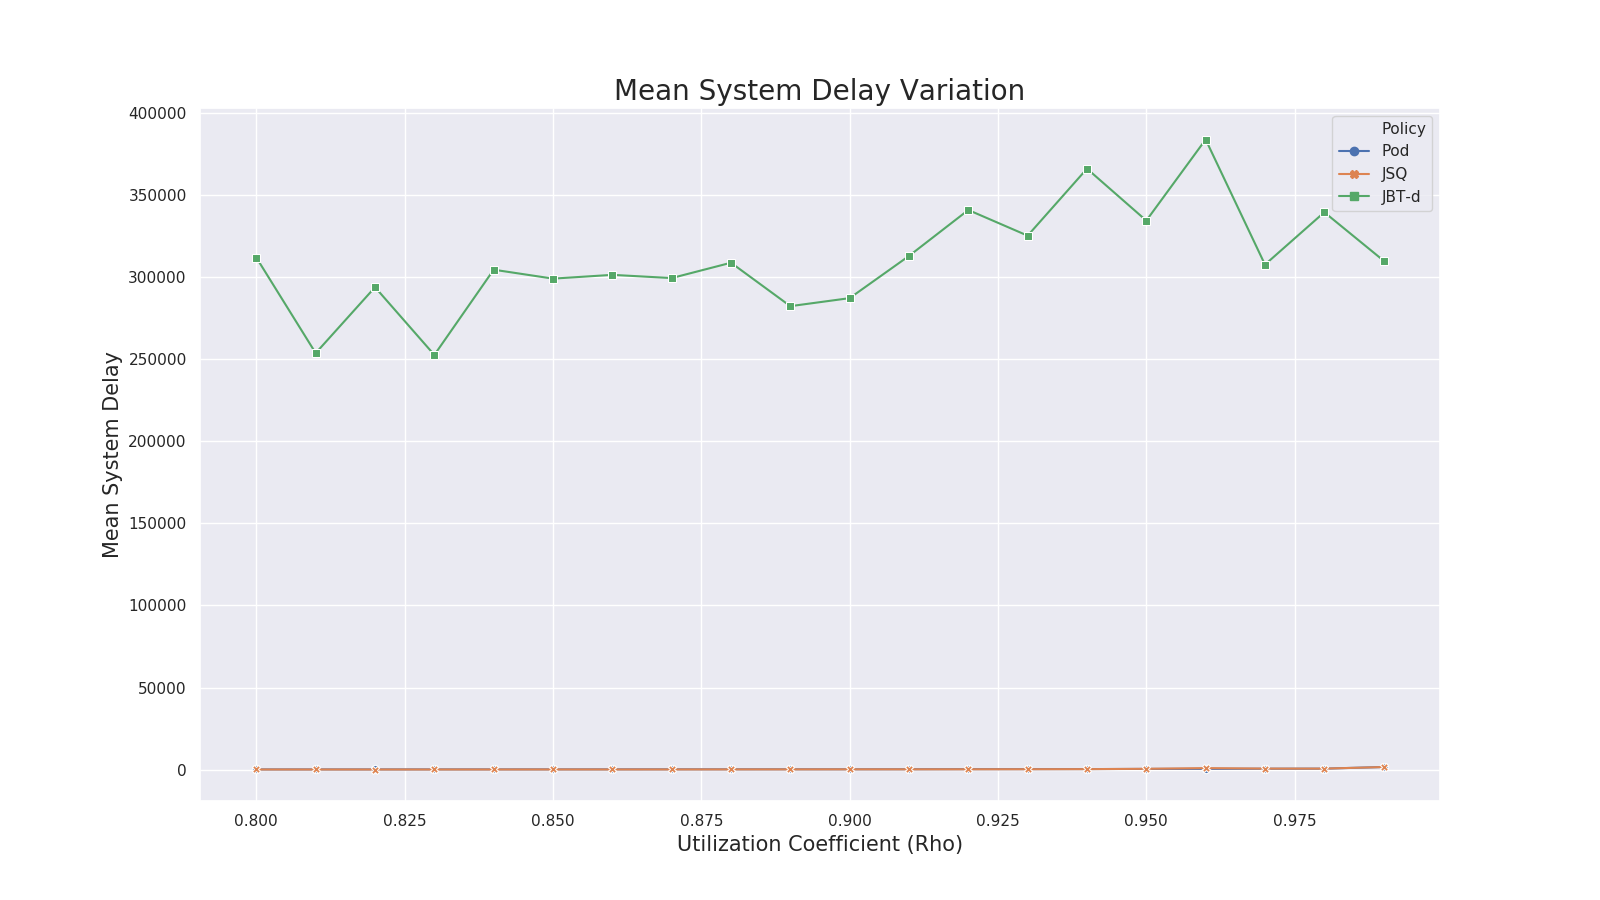
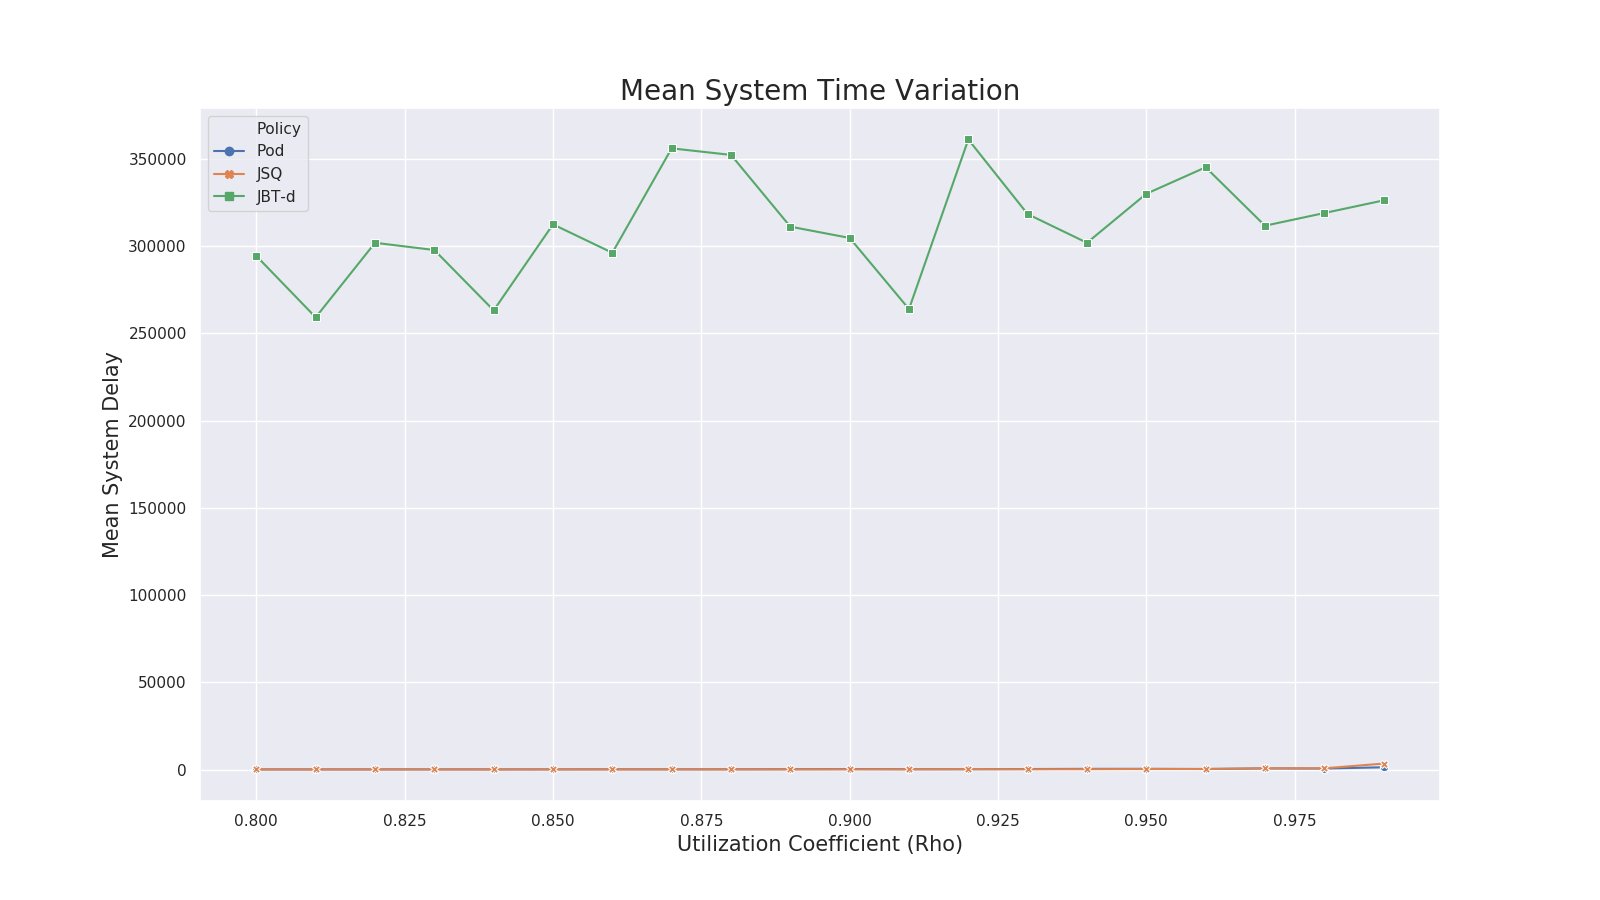
Modulate dispatcher simulation for all policies

diff --git a/Dispatcher.py b/Dispatcher.py
@@ -16,7 +16,7 @@ class Dispatcher:
 
     def __init__(self, number_of_tasks: int,
                  number_of_servers: int,
-                 rho: float, d: int):
+                 rho: float, d: int, jbt=False):
         self.number_of_tasks = number_of_tasks
         self.number_of_servers = number_of_servers
         self.servers = {i: 0 for i in range(number_of_servers)}
@@ -27,6 +27,8 @@ class Dispatcher:
         self.beta = self.compute_beta(self.rho)
         self.interval_times = []
         self.process_times = []
+        self.overhead = 0
+        self.jbt = jbt
 
     def get_tasks_timeline(self):
         return self.tasks_timeline
@@ -92,8 +94,71 @@ class Dispatcher:
         system_time = task_finish_time - time
         self.system_times.append(system_time)
 
+    def process_tasks_jbt(self):
+        remaining_tasks = len(self.tasks_timeline)
+        time = 0
+        threshold = float("+inf")
+        while(remaining_tasks > 0):
+            overhead_temp = 0
+
+            # obtain servers with queue length below threshold
+            servers_below_threshold = []
+            for id, queue_len in self.servers.items():
+                if queue_len < threshold:
+                    servers_below_threshold.append(id)
+
+            # start iterating
+            time += self.t
+            tasks_cnt = 0   # number of tasks in the time interval
+            index = -1      # index of the last task to process
+            for i in range(index+1, self.number_of_tasks):
+                # select all tasks from the last interval
+                x = self.tasks_timeline[i]
+                if x <= time:
+                    tasks_cnt += 1
+                    index = i
+                else:
+                    break
+
+            # if there are servers available, sample one of them to process
+            # all the tasks, else sample a random one from all the servers in the system
+            if len(servers_below_threshold) > 0:
+                n_servers = min(self.d, len(servers_below_threshold))
+                server_id = self.pick_best_server(
+                    servers_below_threshold, n_servers)
+                overhead_temp += 2*n_servers    # initialize the temp overhead
+            else:
+                server_id = random.sample(list(self.servers.keys()), 1)[0]
+
+            # update the threshold with the choosen server's one
+            threshold = self.servers[server_id]
+            # assing all the tasks to the choosen server
+            for i in range(tasks_cnt):
+                self.assign_task(time, server_id)
+            # update the total number of remaing tasks
+            remaining_tasks -= tasks_cnt
+            # increate the temp overhead
+            overhead_temp += self.number_of_servers
+
+            # update the total system overhead
+            self.overhead += tasks_cnt + overhead_temp/self.t
+        self.overhead /= self.number_of_tasks
+
     def compute_overhead(self):
-        return 2*self.d
+        self.overhead = 2*self.d
+
+    def print_results(self, process_time_exp, mean_process_time,
+                      interval_time_exp, mean_interval_time,
+                      empirical_rho, mean_system_time):
+        print("Beta =", self.beta)
+        print("E[X] =", process_time_exp, " --> ",
+              "Mean process time =", mean_process_time)
+        print("E[T] =", interval_time_exp, " --> ",
+              "Mean interval time =", mean_interval_time)
+        print("Rho =", self.rho, " --> ",
+              "Empirical Rho =", empirical_rho)
+        print("Mean system time =", mean_system_time)
+        print()
 
     def execute_simulation(self):
         print()
@@ -102,79 +167,17 @@ class Dispatcher:
 
         self.generate_tasks_timeline(self.number_of_tasks)
 
-        for time in self.tasks_timeline:
-            server_id = self.pick_best_server(
-                list(self.servers.keys()), self.d)
-            self.assign_task(time, server_id)
-
-        mean_system_time = sum(self.system_times)/self.number_of_tasks
-
-        print("Completed! rho = " + str(self.rho))
-        process_time_exp = su.compute_process_time_exp(self.beta, self.alpha)
-        interval_time_exp = su.compute_interval_time_exp(
-            self.t_0, self.q, self.y)
-
-        mean_process_time = sum(self.process_times)/len(self.process_times)
-        mean_interval_time = sum(self.interval_times)/len(self.interval_times)
-
-        print("Beta =", self.beta)
-        print("E[X] =", process_time_exp)
-        print("Mean process time =", mean_process_time)
-        print("E[T] =", interval_time_exp)
-        print("Mean interval time =", mean_interval_time)
-        print("The mean system time is:", mean_system_time)
-        print()
-
-        return mean_system_time
-
-    def execute_simulation_jbt(self):
-        print()
-        print("Starting simulation for rho = " + str(self.rho))
-        print()
-
-        overhead = 0
-        self.generate_tasks_timeline(self.number_of_tasks)
-
-        remaining_tasks = len(self.tasks_timeline)
-        time = 0
-        threshold = float("+inf")
-        while(remaining_tasks > 0):
-            overhead_temp = 0
-
-            servers_below_threshold = []
-            for id, queue_len in self.servers.items():
-                if queue_len < threshold:
-                    servers_below_threshold.append(id)
-
-            time += self.t
-            tasks_cnt = 0
-            index = -1
-            for i in range(index+1, self.number_of_tasks):
-                x = self.tasks_timeline[i]
-                if x <= time:
-                    tasks_cnt += 1
-                    index = i
-                else:
-                    break
-
-            if len(servers_below_threshold) > 0:
-                n_servers = min(self.d, len(servers_below_threshold))
+        if not self.jbt:
+            for time in self.tasks_timeline:
                 server_id = self.pick_best_server(
-                    servers_below_threshold, n_servers)
-                overhead_temp += 2*n_servers
-            else:
-                server_id = random.sample(list(self.servers.keys()), 1)[0]
-
-            threshold = self.servers[server_id]
-            for i in range(tasks_cnt):
+                    list(self.servers.keys()), self.d)
                 self.assign_task(time, server_id)
-            remaining_tasks -= tasks_cnt
-            overhead_temp += self.number_of_servers
+            self.compute_overhead()
 
-            overhead += tasks_cnt + overhead_temp/self.t
+        else:
+            self.process_tasks_jbt()
 
         mean_system_time = sum(self.system_times)/self.number_of_tasks
-        mean_overhead = overhead/self.number_of_tasks
 
         print("Completed! rho = " + str(self.rho))
         process_time_exp = su.compute_process_time_exp(self.beta, self.alpha)
@@ -183,13 +186,11 @@ class Dispatcher:
 
         mean_process_time = sum(self.process_times)/len(self.process_times)
         mean_interval_time = sum(self.interval_times)/len(self.interval_times)
+        empirical_rho = mean_process_time * \
+            (self.number_of_servers*mean_interval_time)
 
-        print("Beta =", self.beta)
-        print("E[X] =", process_time_exp)
-        print("Mean process time =", mean_process_time)
-        print("E[T] =", interval_time_exp)
-        print("Mean interval time =", mean_interval_time)
-        print("The mean system delay is:", mean_system_time)
-        print()
+        self.print_results(process_time_exp, mean_process_time,
+                           interval_time_exp, mean_interval_time,
+                           empirical_rho, mean_system_time)
 
-        return mean_system_time, mean_overhead
+        return mean_system_time, self.overhead

diff --git a/simulation_utils.py b/simulation_utils.py
@@ -36,12 +36,8 @@ class Simulator:
     def simulate_partial(self, rho, i, output: list, overheads: list, jbt=False):
         dispatcher = Dispatcher(self.number_of_tasks,
                                 self.number_of_servers,
-                                rho, self.d)
-        if jbt:
-            mean_sys_delay, overhead = dispatcher.execute_simulation_jbt()
-        else:
-            mean_sys_delay = dispatcher.execute_simulation()
-            overhead = dispatcher.compute_overhead()
+                                rho, self.d, jbt=jbt)
+        mean_sys_delay, overhead = dispatcher.execute_simulation()
         output.append((i, mean_sys_delay))
         overheads.append((i, overhead))
 

diff --git a/main.py b/main.py
@@ -6,7 +6,7 @@ from time import time
 from simulation_utils import Simulator, plot
 
 
-number_of_tasks = (10**4)
+number_of_tasks = (10**5)
 number_of_servers = 20
 d = 3
 rho_values = np.arange(0.8, 1., 0.01)
